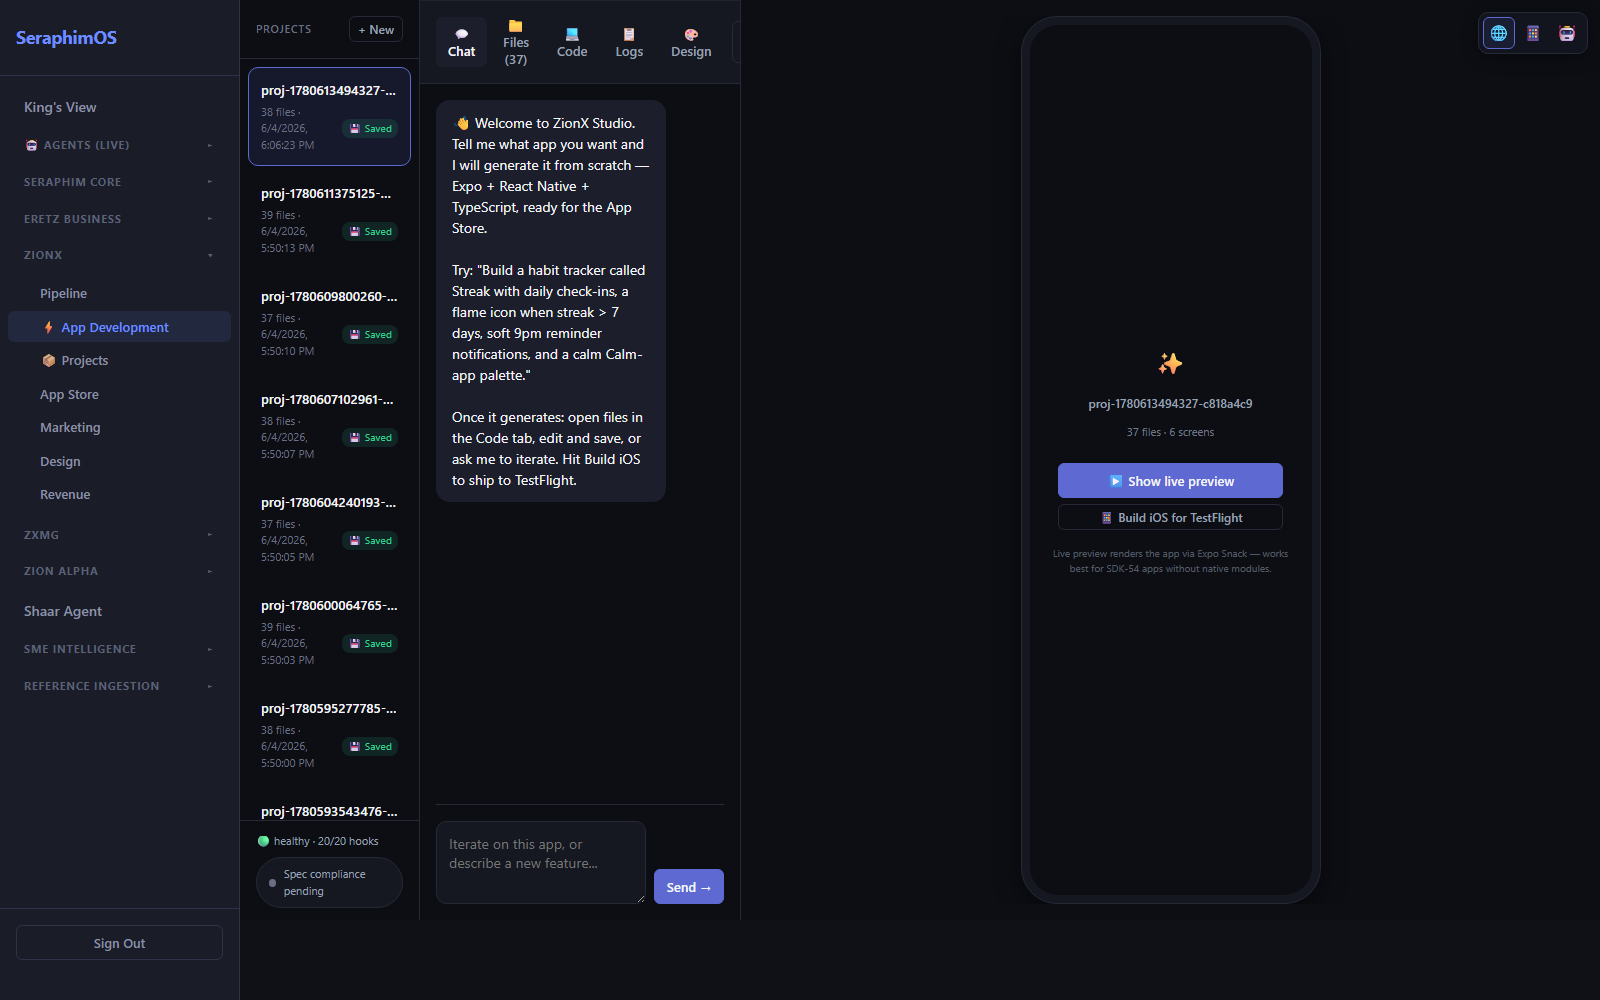
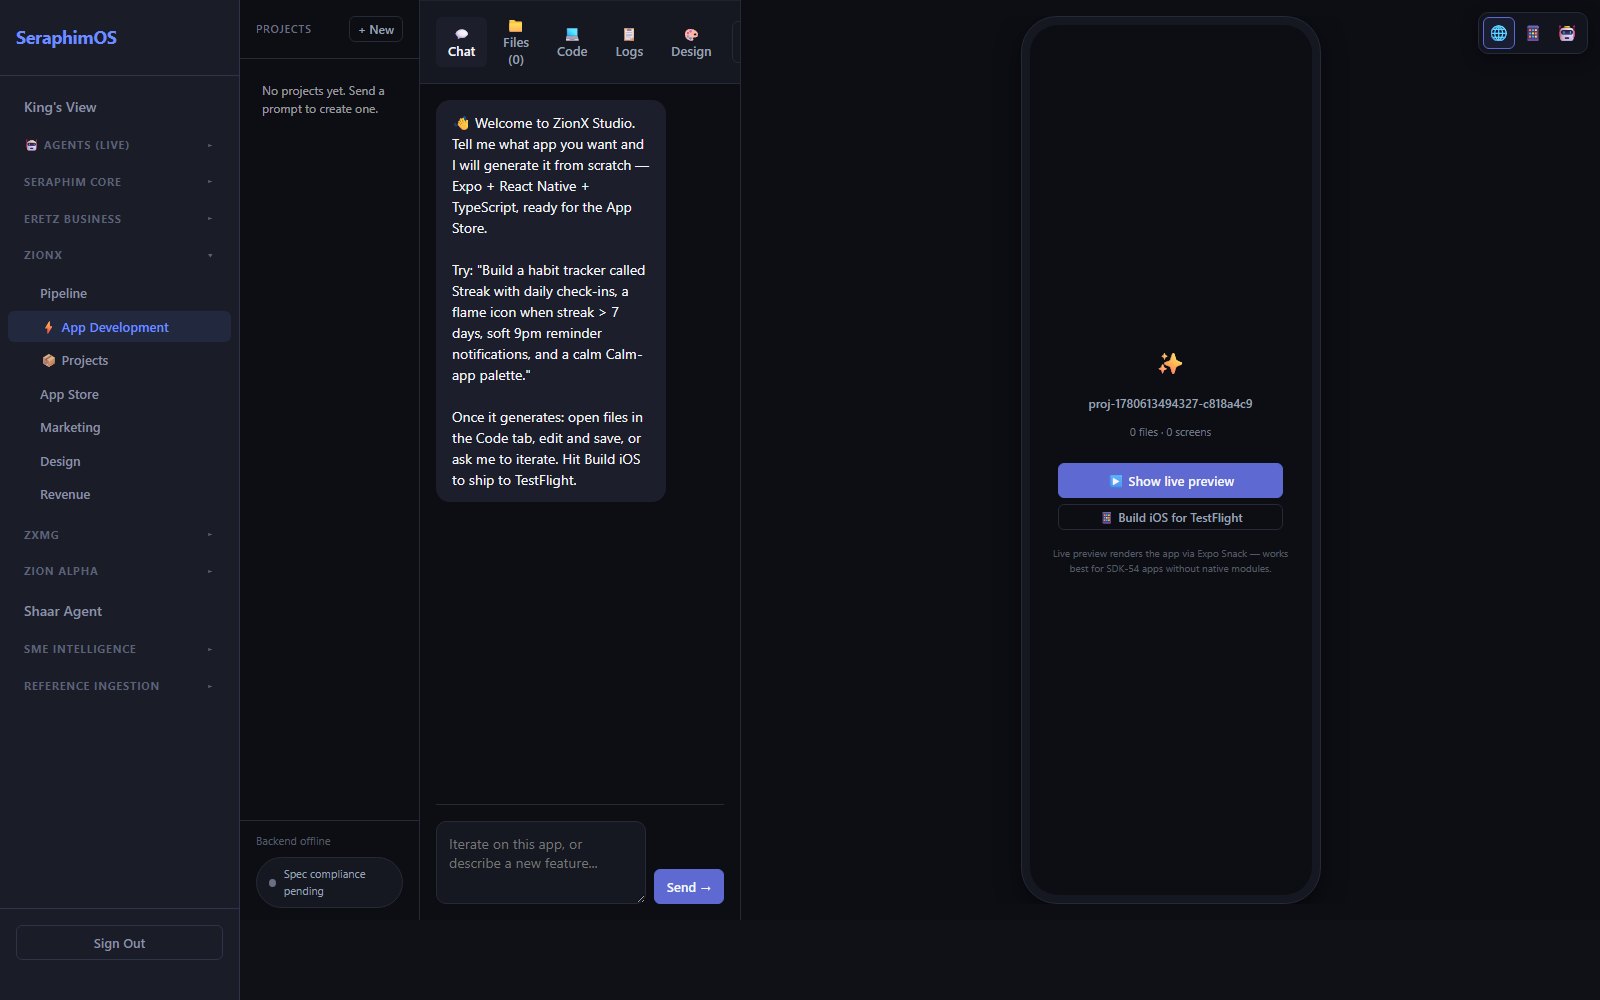
test(layout): verify scroll-lock + scale 0.95 fits 800px viewport — no more cutoff

diff --git a/scripts/probe-heights.ts b/scripts/probe-heights.ts
@@ -1,0 +1,70 @@
+/**
+ * Probe the actual heights of every container in the chain so I can see
+ * WHY the studio is taller than 100vh and the preview gets pushed past
+ * the visible area.
+ */
+import { chromium } from 'playwright';
+
+const DASH = 'http://seraphim-dashboard-live.s3-website-us-east-1.amazonaws.com';
+
+async function main() {
+  const browser = await chromium.launch({ headless: true });
+  const ctx = await browser.newContext({ viewport: { width: 1600, height: 800 } }); // match King's likely viewport
+  const page = await ctx.newPage();
+  await page.goto(DASH, { waitUntil: 'networkidle' });
+  await page.evaluate(`(() => {
+    const h = btoa(JSON.stringify({ alg: 'HS256', typ: 'JWT' }));
+    const p = btoa(JSON.stringify({
+      sub: 'k', email: 'k@k', 'cognito:username': 'King',
+      'cognito:groups': ['king'], exp: Math.floor(Date.now()/1000)+86400, iat: Math.floor(Date.now()/1000)
+    }));
+    localStorage.setItem('seraphim_id_token', h + '.' + p + '.x');
+    localStorage.setItem('seraphim_access_token', h + '.' + p + '.x');
+    localStorage.setItem('seraphim_refresh_token', 'r');
+  })()`);
+  await page.reload({ waitUntil: 'networkidle' });
+  await page.waitForSelector('a.sidebar-link', { timeout: 30_000 });
+  await page.click('.sidebar-section-header[data-section="zionx"]').catch(() => {});
+  await page.waitForTimeout(500);
+  await page.click('a.sidebar-link[data-view="zionx-app-development"]');
+  await page.waitForSelector('.studio', { timeout: 20_000 });
+  await page.waitForTimeout(8000);
+
+  const probe = await page.evaluate(() => {
+    function gather(sel: string) {
+      const el = document.querySelector(sel) as HTMLElement | null;
+      if (!el) return null;
+      const r = el.getBoundingClientRect();
+      const cs = getComputedStyle(el);
+      return {
+        sel,
+        rect: { x: Math.round(r.x), y: Math.round(r.y), w: Math.round(r.width), h: Math.round(r.height) },
+        height: cs.height,
+        maxHeight: cs.maxHeight,
+        overflow: cs.overflow,
+        padding: cs.padding,
+      };
+    }
+    return {
+      windowH: window.innerHeight,
+      docScrollH: document.documentElement.scrollHeight,
+      bodyScrollH: document.body.scrollHeight,
+      scrollY: window.scrollY,
+      el: {
+        body: gather('body'),
+        root: gather('#root'),
+        nav: gather('nav.top-nav, .top-nav, nav'),
+        dashboardView: gather('#dashboard-view'),
+        dashboardMain: gather('.dashboard-main'),
+        studio: gather('.studio'),
+        studioMain: gather('.studio-main'),
+        studioPreview: gather('.studio-preview'),
+        deviceFrame: gather('.studio-device-frame'),
+        iframe: gather('.studio-device-screen iframe'),
+      },
+    };
+  });
+  console.log(JSON.stringify(probe, null, 2));
+  await browser.close();
+}
+void main();
